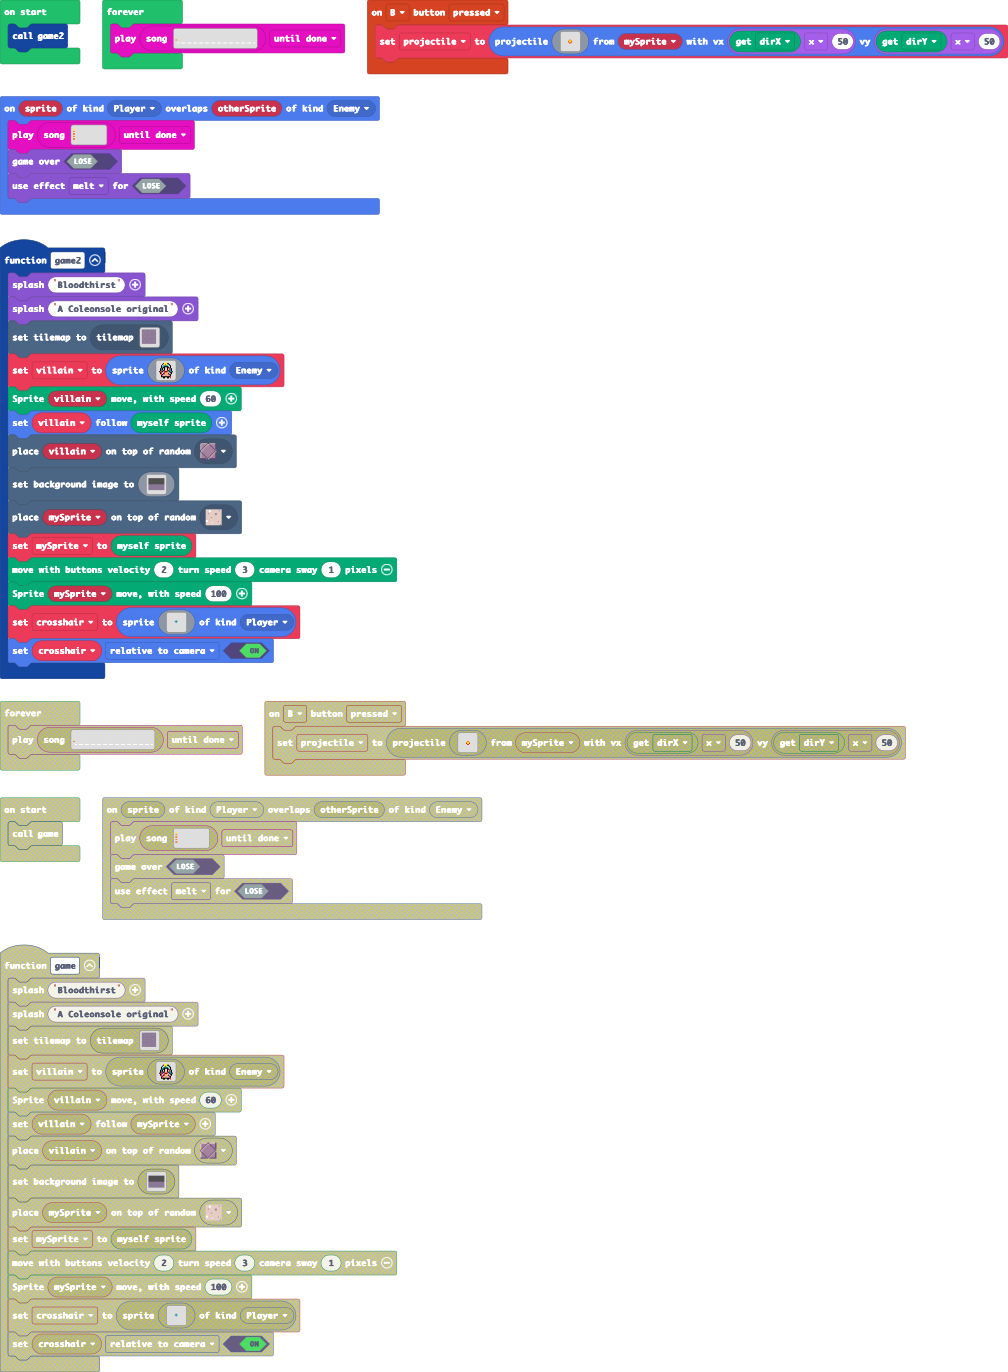
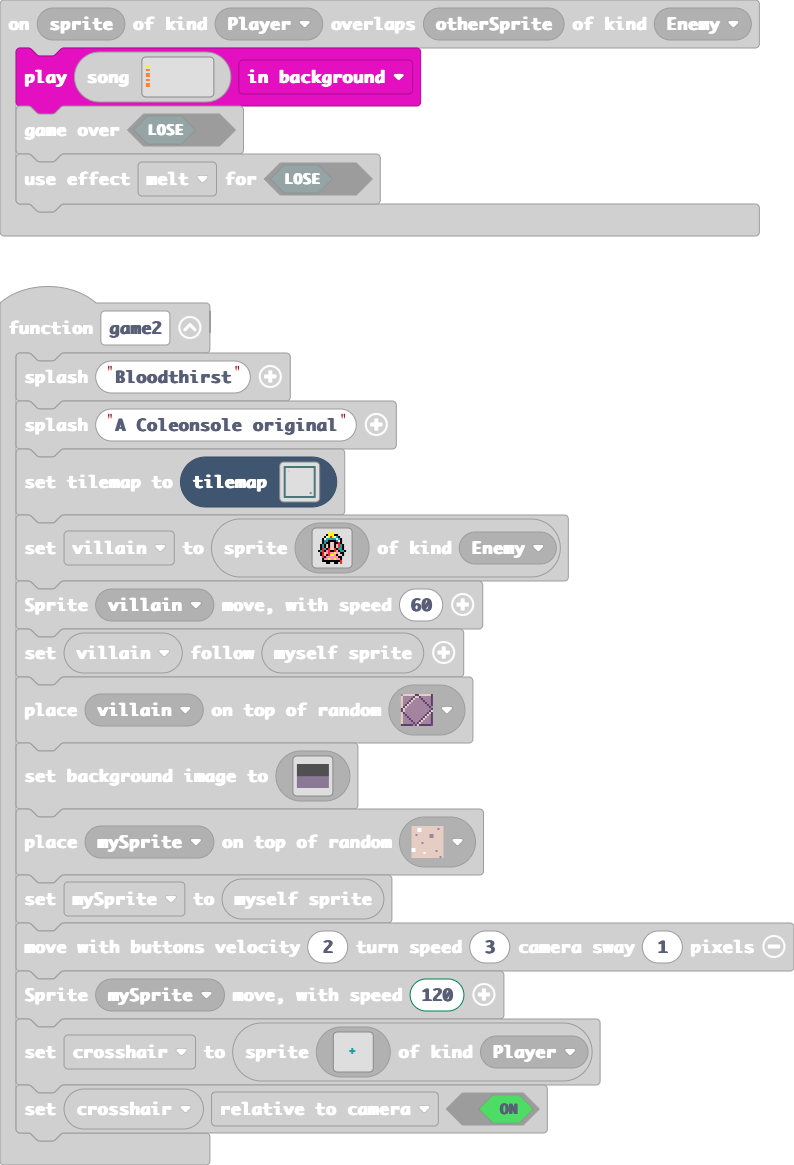
Update main.blocks, main.ts, tilemap.g.jres, tilemap.g.ts

diff --git a/main.ts b/main.ts
@@ -21,7 +21,7 @@ controller.B.onEvent(ControllerButtonEvent.Pressed, function () {
 function game2 () {
     game.splash("Bloodthirst")
     game.splash("A Coleonsole original")
-    tiles.setCurrentTilemap(tilemap`level2`)
+    tiles.setCurrentTilemap(tilemap`level1`)
     villain = sprites.create(img`
         . . . . . . 5 . 5 . . . . . . . 
         . . . . . f 5 5 5 f f . . . . . 
@@ -168,7 +168,7 @@ function game2 () {
     tiles.placeOnRandomTile(mySprite, sprites.castle.tilePath5)
     mySprite = Render.getRenderSpriteVariable()
     Render.moveWithController(2, 3, 1)
-    Render.move(mySprite, 100)
+    Render.move(mySprite, 120)
     crosshair = sprites.create(img`
         . . . . . . . . . . . . . . . . 
         . . . . . . . . . . . . . . . . 
@@ -190,7 +190,7 @@ function game2 () {
     crosshair.setFlag(SpriteFlag.RelativeToCamera, true)
 }
 sprites.onOverlap(SpriteKind.Player, SpriteKind.Enemy, function (sprite, otherSprite) {
[2 lines of base64/hex data omitted]
     game.gameOver(false)
     game.setGameOverEffect(false, effects.melt)
 })

diff --git a/tilemap.g.ts b/tilemap.g.ts
@@ -152,6 +152,25 @@ namespace myTiles {
 2 . . . . . . . . . . . . . . 2 
 2 2 2 2 2 2 2 2 2 2 2 2 2 2 2 2 
 `, [myTiles.transparency16,sprites.castle.tilePath5,sprites.dungeon.floorDarkDiamond,sprites.dungeon.greenOuterNorth0], TileScale.Sixteen);
+            case "level4":
+            case "level4":return tiles.createTilemap(hex`1000100000000000000000000000000000000000000000000000000000000000000000000000000000000000000000000000000000000000000000000000000000000000000000000000000000000000000000000000000000000000000000000000000000000000000000000000000000000000000000000000000000000000000000000000000000000000000000000000000000000000000000000000000000000000000000000000000000000000000000000000000000000000000000000000000000000000000000000000000000000000000000000000000000000000000000000000000000000000000000000000000000000000000000000000000000000000`, img`
+. . . . . . . . . . . . . . . . 
+. . . . . . . . . . . . . . . . 
+. . . . . . . . . . . . . . . . 
+. . . . . . . . . . . . . . . . 
+. . . . . . . . . . . . . . . . 
+. . . . . . . . . . . . . . . . 
+. . . . . . . . . . . . . . . . 
+. . . . . . . . . . . . . . . . 
+. . . . . . . . . . . . . . . . 
+. . . . . . . . . . . . . . . . 
+. . . . . . . . . . . . . . . . 
+. . . . . . . . . . . . . . . . 
+. . . . . . . . . . . . . . . . 
+. . . . . . . . . . . . . . . . 
+. . . . . . . . . . . . . . . . 
+. . . . . . . . . . . . . . . . 
+`, [myTiles.transparency16], TileScale.Sixteen);
         }
         return null;
     })
